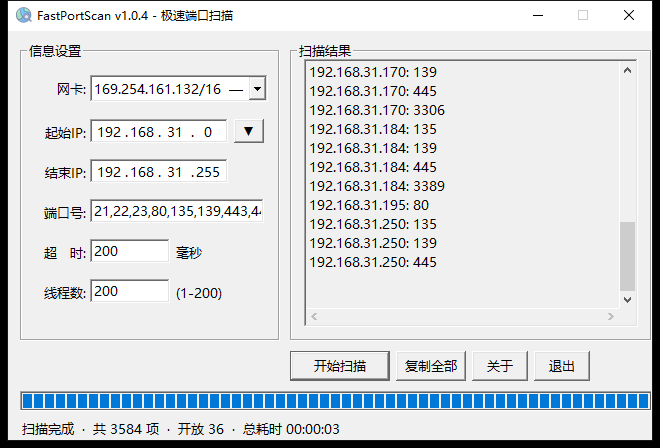
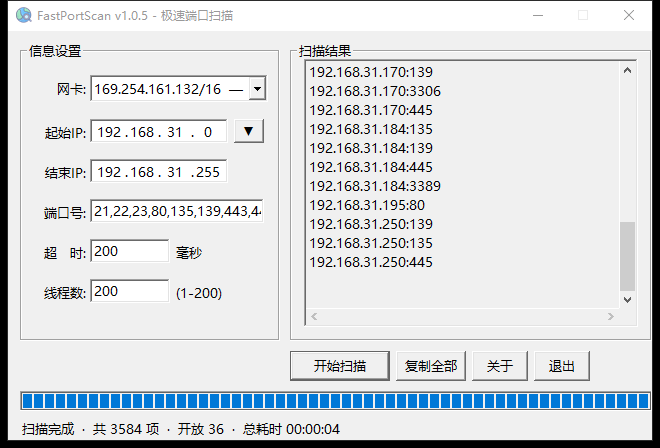
结果行端口格式改为 IP:端口（去掉冒号后空格）

diff --git a/src/scan.cpp b/src/scan.cpp
@@ -176,7 +176,7 @@ static DWORD WINAPI ScanWorker(LPVOID)
         if (TestPort(ip, port, g_timeoutMs))
         {
             wchar_t line[64];
-            _snwprintf(line, 64, L"%u.%u.%u.%u: %u\r\n",
+            _snwprintf(line, 64, L"%u.%u.%u.%u:%u\r\n",
                        (ip >> 24) & 255, (ip >> 16) & 255, (ip >> 8) & 255, ip & 255, port);
             AppendResult(hResult, line);
             InterlockedIncrement(&g_openCnt);

diff --git a/src/common.h b/src/common.h
@@ -47,7 +47,7 @@
 #define THREADS_MIN     1
 #define THREADS_MAX     200         // 原版上限
 
-#define K_VERSION L"v1.0.4"   // 发版时与 assets/app.rc 的 FileVersion 同步改
+#define K_VERSION L"v1.0.5"   // 发版时与 assets/app.rc 的 FileVersion 同步改
 extern const wchar_t K_TITLE[];
 extern const wchar_t K_APP_NAME[];
 extern const wchar_t K_STR_SCAN[];

diff --git a/README.md b/README.md
@@ -64,7 +64,7 @@ MSVC（与 CI 相同）：`rc /c 65001 /fo app.res assets\app.rc` 后
     临界区内领取下一个 IP:端口（顺序遍历 [起始IP..结束IP] × 端口区间）
     socket(AF_INET, SOCK_STREAM, 0) + ioctlsocket(FIONBIO) 非阻塞
     connect() == 0 → 开放；WSAEWOULDBLOCK → select() 写集合按毫秒超时判定
-    closesocket；开放则结果框追加 "%d.%d.%d.%d: %d"
+    closesocket；开放则结果框追加 "%d.%d.%d.%d:%d"
     InterlockedIncrement 计数 → 进度条 / ETA
 ```
 
